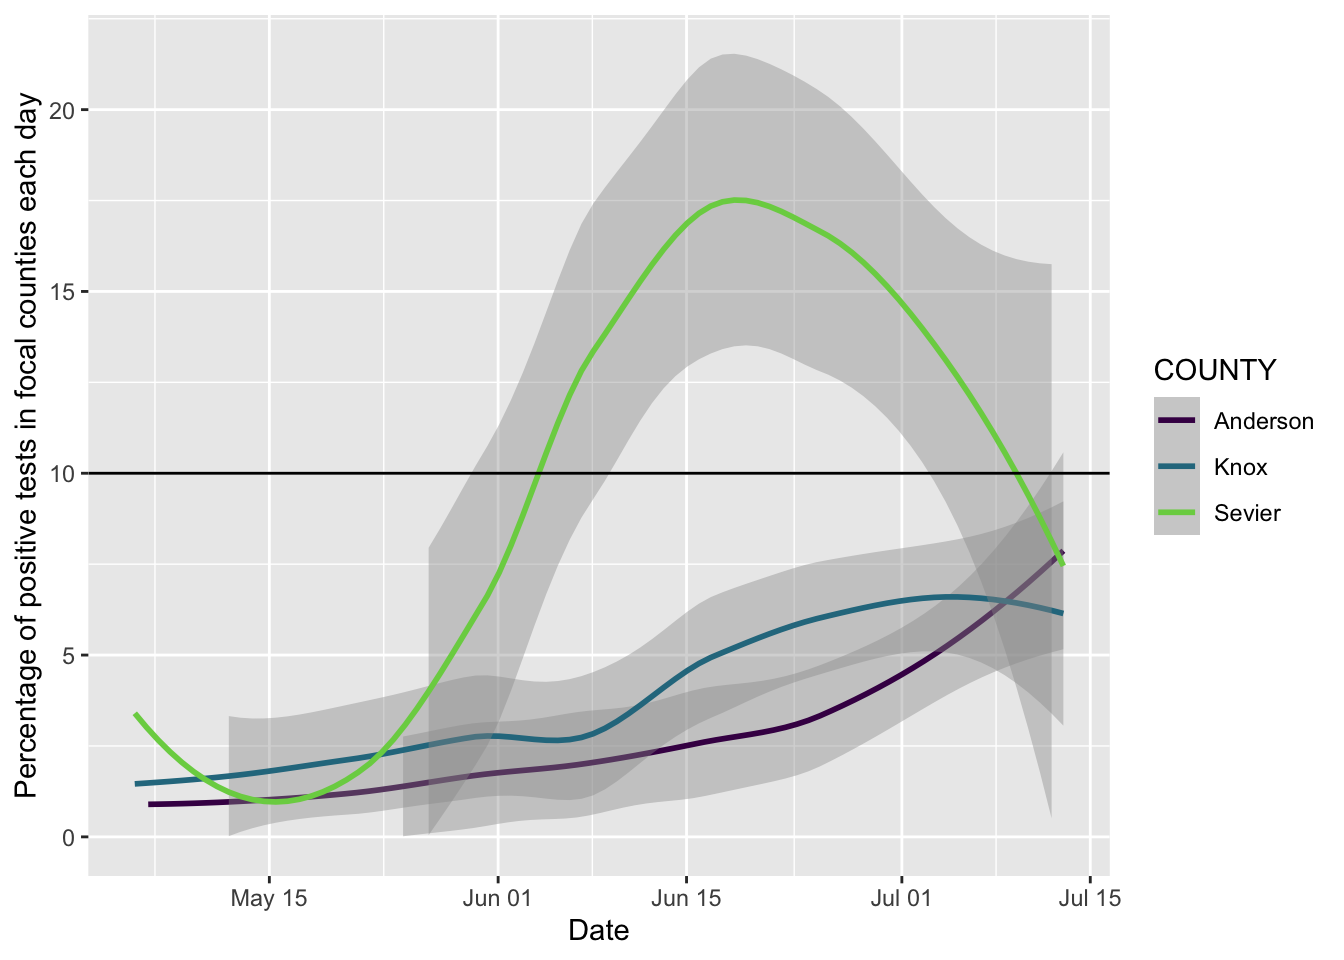
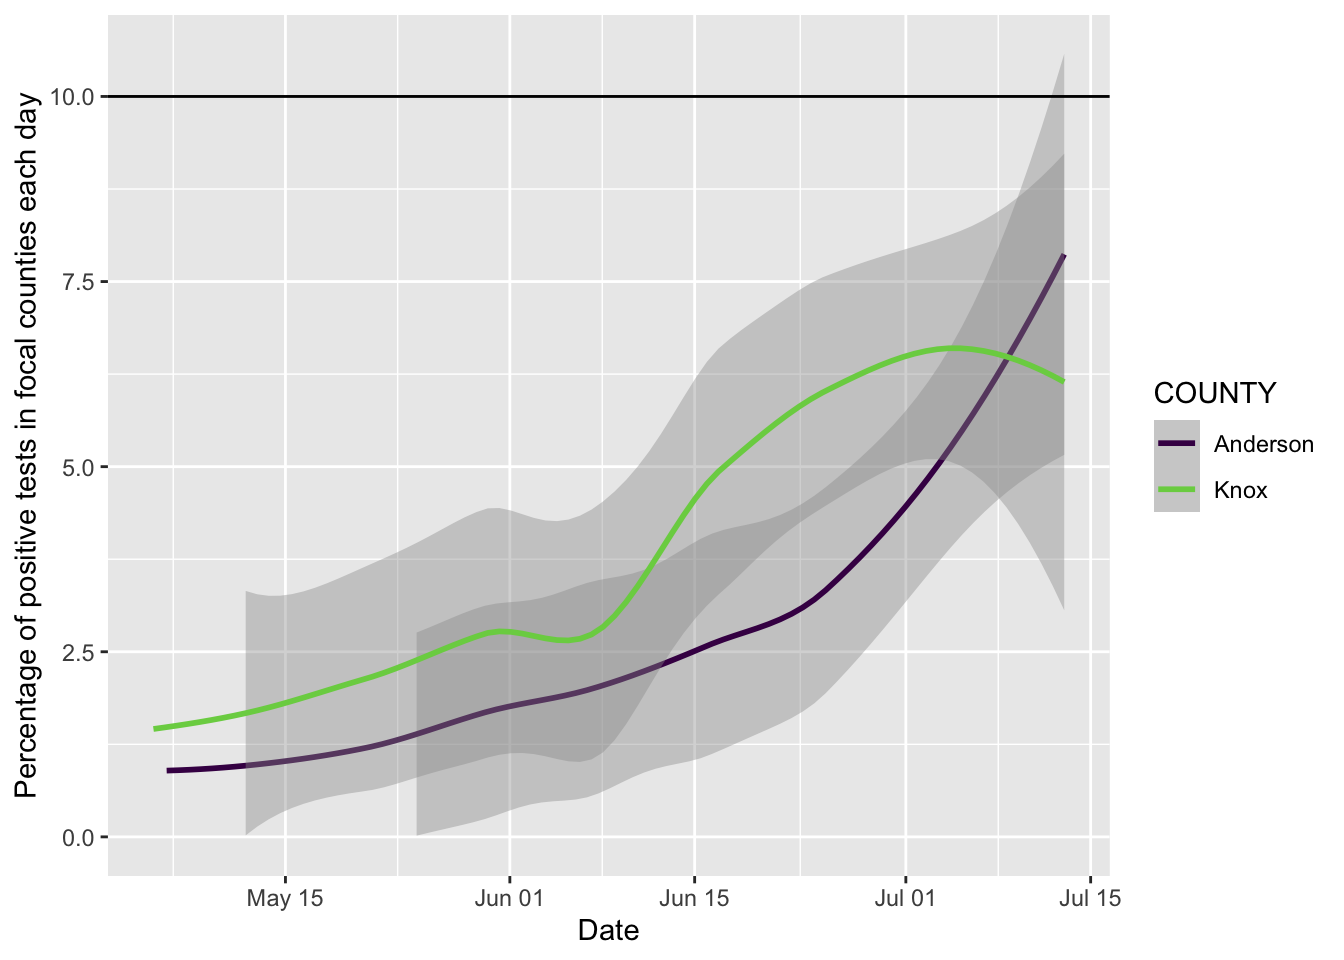
updating site

diff --git a/docs/covid.html b/docs/covid.html
@@ -412,12 +412,12 @@ $(document).ready(function () {
 <li><a href="https://projects.propublica.org/reopening-america/">ProPublica’s tracker of state status</a>. Click on the play button below their map to see how rates are changing over time, and dig into info on your state.</li>
 </ul>
 <hr />
-<p>Here are some plots, created in R using data from <a href="https://covid19datahub.io" class="uri">https://covid19datahub.io</a> (Guidotti, E., Ardia, D., (2020), “COVID-19 Data Hub”, Working paper, doi: 10.13140/RG.2.2.11649.81763), as well as information from Google and the <a href="https://www.tn.gov/health/cedep/ncov/data/downloadable-datasets.html">state of Tennessee dataset page</a> and plotting and analysis using the <code>forecast</code>, <code>ggplot2</code>, <code>reshape2</code>, and <code>dplyr</code> packages. It also uses the <a href="https://github.com/mtna/rds-r">rds-r</a> package from <a href="https://www.richdataservices.com/" class="uri">https://www.richdataservices.com/</a>. Plots created on 2020-07-13 17:33:48. I use <code>ggplot2</code>’s <code>geom_smooth()</code> function for the smoothed regression plots with its default formula, which uses loess smoothing for this many points. This is not based on a model of disease spread or anything similarly sophisticated, just drawing a smooth curve to summarize noisy points (see <a href="https://www.itl.nist.gov/div898/handbook/pmd/section1/pmd144.htm">here</a> for more details).</p>
+<p>Here are some plots, created in R using data from <a href="https://covid19datahub.io" class="uri">https://covid19datahub.io</a> (Guidotti, E., Ardia, D., (2020), “COVID-19 Data Hub”, Working paper, doi: 10.13140/RG.2.2.11649.81763), as well as information from Google and the <a href="https://www.tn.gov/health/cedep/ncov/data/downloadable-datasets.html">state of Tennessee dataset page</a> and plotting and analysis using the <code>forecast</code>, <code>ggplot2</code>, <code>reshape2</code>, and <code>dplyr</code> packages. It also uses the <a href="https://github.com/mtna/rds-r">rds-r</a> package from <a href="https://www.richdataservices.com/" class="uri">https://www.richdataservices.com/</a>. Plots created on 2020-07-13 17:36:18. I use <code>ggplot2</code>’s <code>geom_smooth()</code> function for the smoothed regression plots with its default formula, which uses loess smoothing for this many points. This is not based on a model of disease spread or anything similarly sophisticated, just drawing a smooth curve to summarize noisy points (see <a href="https://www.itl.nist.gov/div898/handbook/pmd/section1/pmd144.htm">here</a> for more details).</p>
 <p>The number of new and active cases should be not be going up if things are well-controlled, and ideally should be going down. The number of active cases is the number of positive cases minus the total of recovered or deceased cases: note it is from those tested and shown to be positive, but there are likely more people with covid who have not been tested. This uses data from <a href="https://www.tn.gov/health/cedep/ncov/data/downloadable-datasets.html" class="uri">https://www.tn.gov/health/cedep/ncov/data/downloadable-datasets.html</a>. Note that the number of active cases in Knox County reported by the state differs from the <a href="https://covid.knoxcountytn.gov/case-count.html#covid_data">county website</a>, sometimes dramatically (on June 16, the county website said 102 active cases, while the state says 178, for example) – I suspect this is based on the number of recovered cases not being updated as quickly in the state data, but I do not know. Knox County does not seem to offer a download of their data through time, so I am using the state’s data. The number of new cases per day seems to align fairly well, but not perfectly, between the state and county data, too.</p>
 <p><img src="covid_files/figure-html/plotsA-1.png" width="672" /><img src="covid_files/figure-html/plotsA-2.png" width="672" /></p>
 <p>A question is whether testing is adequate. The White House has said about 30 tests per 1000 people per month is adequate (this is also what <a href="https://projects.propublica.org/reopening-america/#notes">ProPublica</a> uses); others have argued that around 45 tests per 1000 people per month is better, though with variation depending on infection rate (see <a href="https://www.statnews.com/2020/04/27/coronavirus-many-states-short-of-testing-levels-needed-for-safe-reopening/">here</a>). These are the black lines on the plots below (calculated as tests per day, given Knox County’s population of 470313).</p>
 <p><img src="covid_files/figure-html/plotsB-1.png" width="672" /></p>
-<p>Another way to look at testing (or disease spread) is to look at the proportion of positive tests (“positivity rate”): they can go up if a greater proportion of symptomatic people are being tested and/or if the frequency of the disease is increasing. WHO recommends testing should be 10% positive or lower (black line). Here, I’m including two nearby counties, Anderson (home of Oak Ridge) and Sevier (home of Pigeon Forge, Gatlinburg, and Sevierville).</p>
+<p>Another way to look at testing (or disease spread) is to look at the proportion of positive tests (“positivity rate”): they can go up if a greater proportion of symptomatic people are being tested and/or if the frequency of the disease is increasing. WHO recommends testing should be 10% positive or lower (black line). Here, I’m including a nearby county, Anderson (home of Oak Ridge), where some people at UT live and where there are reearch collaborations.</p>
 <p><img src="covid_files/figure-html/plotsB2-1.png" width="672" /></p>
 <p>Which age groups are being infected is an important question as local schools open up. These are data from Knox county alone.</p>
 <p><img src="covid_files/figure-html/age2-1.png" width="672" /><img src="covid_files/figure-html/age2-2.png" width="672" /></p>
